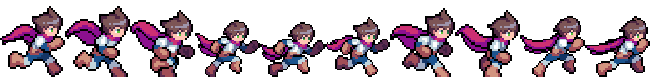
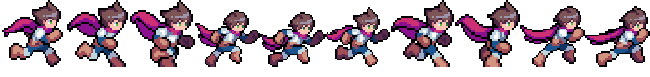
fix: align custom skins and expose solo picker

diff --git a/public/app.js b/public/app.js
@@ -20,6 +20,7 @@ const room = document.querySelector('#room');
 const nickname = document.querySelector('#nickname');
 const join = document.querySelector('#menu-start');
 const soloStart = document.querySelector('#solo-start');
+const soloSkin = document.querySelector('#solo-skin');
 const flip = document.querySelector('#flip');
 const soundToggle = document.querySelector('#sound-toggle');
 const pageRefresh = document.querySelector('#page-refresh');
@@ -62,6 +63,7 @@ const colors = ['#3ce6df', '#ff626c', '#7ee66b', '#ffd75d'];
 // assigns the slot default (Black Knight for P1, Demon_A for P2) instead of
 // every new connection accidentally claiming player one's visual.
 let selectedSkinId;
+let skinDialogMode = 'lobby';
 try { selectedSkinId = skinById(localStorage.getItem(SKIN_STORAGE_KEY))?.id; } catch {}
 const roleNames = ['黑骑士', '恶魔小鬼', '绿色重力小子', '黄色重力小子'];
 const music = new Audio(assetUrl('assets/sounds/025_SndMusic.mp3'));
@@ -248,6 +250,7 @@ Promise.all([mapLoad, ...[...sprites, ...Object.values(scene), openingBeam, elim
   join.textContent = '开始联机';
   soloStart.disabled = false;
   soloStart.textContent = '单人开始';
+  soloSkin.disabled = false;
   updateLobbyProgress();
   sendReady();
   signalRaceReady();
@@ -259,6 +262,7 @@ Promise.all([mapLoad, ...[...sprites, ...Object.values(scene), openingBeam, elim
   resourcesFailed = true;
   join.textContent = '资源加载失败';
   soloStart.textContent = '资源加载失败';
+  soloSkin.textContent = '资源加载失败';
   setStatus('资源加载失败，请刷新重试');
   if (!frontScreen.hidden) frontScreen.dataset.phase = 'menu';
 });
@@ -455,11 +459,14 @@ function persistSelectedSkin(skinId) {
 }
 function renderSkinDialog() {
   const localPlayer = state.players.find((player) => player.slot === localSlot);
-  const activeSkinId = playerSkinId(localPlayer, localSlot);
+  const choosingSoloSkin = skinDialogMode === 'solo';
+  const activeSkinId = choosingSoloSkin
+    ? (skinById(selectedSkinId)?.id ?? defaultSkinForSlot(1))
+    : playerSkinId(localPlayer, localSlot);
   skinDialogOptions.replaceChildren(...PLAYER_SKINS.map((skin) => {
     const choice = document.createElement('button');
     choice.type = 'button'; choice.className = 'skin-choice'; choice.dataset.skinId = skin.id;
-    choice.disabled = state.phase !== 'lobby' || socket?.readyState !== WebSocket.OPEN;
+    choice.disabled = !choosingSoloSkin && (state.phase !== 'lobby' || socket?.readyState !== WebSocket.OPEN);
     choice.setAttribute('aria-pressed', String(skin.id === activeSkinId));
     const preview = document.createElement('span'); preview.className = 'skin-preview'; setSkinPreview(preview, skin.id, localSlot);
     const label = document.createElement('span'); label.textContent = skin.name;
@@ -467,15 +474,26 @@ function renderSkinDialog() {
     return choice;
   }));
 }
-function openSkinDialog() {
-  if (!localSlot || state.phase !== 'lobby') return;
+function openSkinDialog(mode = 'lobby') {
+  const choosingSoloSkin = mode === 'solo';
+  if (choosingSoloSkin) {
+    if (!raceReady) return setStatus('皮肤仍在加载');
+  } else if (!localSlot || state.phase !== 'lobby') return;
+  skinDialogMode = choosingSoloSkin ? 'solo' : 'lobby';
   renderSkinDialog();
   if (!skinDialog.open) skinDialog.showModal();
 }
 function closeSkinDialog() { if (skinDialog.open) skinDialog.close(); }
 function selectSkin(skinId) {
   const skin = skinById(skinId);
-  if (!skin || state.phase !== 'lobby' || socket?.readyState !== WebSocket.OPEN) return;
+  if (!skin) return;
+  if (skinDialogMode === 'solo') {
+    persistSelectedSkin(skin.id);
+    closeSkinDialog();
+    setStatus(`单人皮肤已选择：${skin.name}`, true);
+    return;
+  }
+  if (state.phase !== 'lobby' || socket?.readyState !== WebSocket.OPEN) return;
   persistSelectedSkin(skin.id);
   socket.send(JSON.stringify({ type: 'select_skin', skinId: skin.id }));
   closeSkinDialog();
@@ -870,7 +888,7 @@ function draw() {
   ctx.restore();
   ctx.fillStyle='#fff'; ctx.font='bold 16px Arial'; ctx.fillText(String(Math.floor(state.tick ?? 0)).padStart(3, '0'), 590, 24);
 }
-join.addEventListener('click', connect); soloStart.addEventListener('click', startSolo); lobbyStart.addEventListener('click', startMatch); nextRound.addEventListener('click', returnToMenu); flip.addEventListener('click', sendFlip); soundToggle.addEventListener('click', toggleSound); pageRefresh.addEventListener('click', () => location.reload()); canvas.addEventListener('click', sendFlip); lobbyPlayers.addEventListener('click', (event) => { if (event.target.closest('[data-skin-action="open"]')) openSkinDialog(); }); skinDialogOptions.addEventListener('click', (event) => { const choice = event.target.closest('[data-skin-id]'); if (choice) selectSkin(choice.dataset.skinId); }); skinDialogClose.addEventListener('click', closeSkinDialog);
+join.addEventListener('click', connect); soloStart.addEventListener('click', startSolo); soloSkin.addEventListener('click', () => openSkinDialog('solo')); lobbyStart.addEventListener('click', startMatch); nextRound.addEventListener('click', returnToMenu); flip.addEventListener('click', sendFlip); soundToggle.addEventListener('click', toggleSound); pageRefresh.addEventListener('click', () => location.reload()); canvas.addEventListener('click', sendFlip); lobbyPlayers.addEventListener('click', (event) => { if (event.target.closest('[data-skin-action="open"]')) openSkinDialog(); }); skinDialogOptions.addEventListener('click', (event) => { const choice = event.target.closest('[data-skin-id]'); if (choice) selectSkin(choice.dataset.skinId); }); skinDialogClose.addEventListener('click', closeSkinDialog);
 fullscreen.addEventListener('click', () => {
   if (document.fullscreenElement) document.exitFullscreen?.();
   else gameShell.requestFullscreen?.();

diff --git a/public/style.css b/public/style.css
@@ -32,8 +32,8 @@ main { width:min(960px,100%); padding:22px; } header,.controls { display:flex; a
 #menu-panel label { justify-self:center; padding:7px 10px; background:#060d12d9; border:1px solid #4a6575; color:#cae6ef; }
 #menu-panel #room { width:128px; padding:5px 8px; border-color:#7896a4; background:#071117; }
 .menu-actions { display:flex; justify-content:center; gap:8px; }
-#menu-start,#solo-start,#back-menu { min-width:154px; justify-self:center; padding:10px 18px; border:1px solid #d8e8f0; background:linear-gradient(#314b5b,#101f2b); color:#fff; font-weight:bold; letter-spacing:.12em; text-shadow:0 1px #000; box-shadow:inset 0 0 0 2px #14232d,0 4px 14px #0008; }
-#menu-start:hover,#solo-start:hover,#back-menu:hover { border-color:#f5d961; color:#fff4ad; }
+#menu-start,#solo-start,#solo-skin,#back-menu { min-width:154px; justify-self:center; padding:10px 18px; border:1px solid #d8e8f0; background:linear-gradient(#314b5b,#101f2b); color:#fff; font-weight:bold; letter-spacing:.12em; text-shadow:0 1px #000; box-shadow:inset 0 0 0 2px #14232d,0 4px 14px #0008; }
+#menu-start:hover,#solo-start:hover,#solo-skin:hover,#back-menu:hover { border-color:#f5d961; color:#fff4ad; }
 #end-screen { z-index:4; background:#000 url('/assets/menu/multi-end.png') center/cover no-repeat; animation:end-in .45s ease-out; }
 #end-screen[hidden],#front-screen[hidden] { display:none; }
 #overlay { z-index:3; }
@@ -44,7 +44,7 @@ main { width:min(960px,100%); padding:22px; } header,.controls { display:flex; a
 #end-rankings li:nth-child(2) { left:51.5625%; top:22.55489%; width:9.0625%; height:14.37126%; }
 #end-rankings li:nth-child(3) { left:51.5625%; top:41.91617%; width:9.0625%; height:14.37126%; }
 #end-rankings li:nth-child(4) { left:51.5625%; top:63.07385%; width:9.0625%; height:14.37126%; }
-.rank-avatar { display:block; width:100%; aspect-ratio:65/77; background:var(--avatar-image) 0 0/1500% 900% no-repeat; filter:drop-shadow(0 3px 5px #000); }
+.rank-avatar { display:block; width:100%; aspect-ratio:65/77; background:var(--avatar-image) 0 0/var(--avatar-background-size,1500% 900%) no-repeat; image-rendering:pixelated; filter:drop-shadow(0 3px 5px #000); }
 #end-rankings li:nth-child(1) .rank-avatar { width:86.66667%; }
 .rank-score { position:absolute; left:50%; top:100%; transform:translateX(-50%); padding:1px 4px; border:1px solid #456170; background:#061017d9; color:#eaf6ff; font-size:clamp(7px,2.1vw,14px); font-weight:bold; line-height:1.15; white-space:nowrap; text-shadow:0 1px #000; }
 #end-rankings li:nth-child(1) .rank-score { top:79%; }
@@ -97,6 +97,6 @@ main { width:min(960px,100%); padding:22px; } header,.controls { display:flex; a
   #menu-panel label { padding:3px 6px; font-size:12px; }
   #menu-panel input { width:126px; padding:4px 6px; }
   .menu-actions { gap:5px; }
-  #menu-start,#solo-start { min-width:0; padding:8px 10px; }
+  #menu-start,#solo-start,#solo-skin { min-width:0; padding:8px 10px; }
   #dev-panel { top:auto; right:6px; bottom:6px; width:min(284px,calc(100vw - 12px)); max-height:55dvh; }
 }

diff --git a/public/asset-urls.js b/public/asset-urls.js
@@ -6,13 +6,13 @@ const versions = Object.freeze({
   "assets/menu/loading-splash.png": "7358057f72ba7f61",
   "assets/menu/menu-background.png": "9c2f8628688aab01",
   "assets/menu/multi-end.png": "7ae74d08f482a948",
-  "assets/players/player-black-knight.png": "5ebbaae74213aba7",
+  "assets/players/player-black-knight.png": "7a8a176090ace14f",
   "assets/players/player-blue.png": "cb211f812d131abb",
   "assets/players/player-demon-a.png": "9d334326f59227b2",
   "assets/players/player-green.png": "7a25655e5f9ceaa7",
   "assets/players/player-red.png": "14a7b2f33103e59e",
-  "assets/players/player-shadow-runner.png": "1d295d9c8432c4af",
-  "assets/players/player-violet-warrior.png": "f8fdfff1ced8fa74",
+  "assets/players/player-shadow-runner.png": "ffbd1b4c90a8003a",
+  "assets/players/player-violet-warrior.png": "4adf9c24e9f3d855",
   "assets/players/player-yellow.png": "6ded9b4bbdff55ea",
   "assets/scene/background.png": "b980400b3391bf3f",
   "assets/scene/block.png": "162d1944289fd718",

diff --git a/public/index.html b/public/index.html
@@ -21,7 +21,7 @@
             <p>最多 4 人 · 房主开始比赛后，点击或按 <kbd>空格</kbd> 反转重力</p>
             <label>房间码 <input id="room" maxlength="12" value="RUN4" autocomplete="off"></label>
             <label>昵称 <input id="nickname" maxlength="12" value="玩家" autocomplete="nickname"></label>
-            <div class="menu-actions"><button id="solo-start" disabled>加载赛道资源…</button><button id="menu-start" disabled>加载赛道资源…</button></div>
+            <div class="menu-actions"><button id="solo-skin" type="button" disabled>选择皮肤</button><button id="solo-start" disabled>加载赛道资源…</button><button id="menu-start" disabled>加载赛道资源…</button></div>
           </div>
           <div id="lobby-panel" aria-live="polite">
             <div class="lobby-card">

diff --git a/tools/build-black-knight-skin.py b/tools/build-black-knight-skin.py
@@ -20,6 +20,10 @@ from PIL import Image
 
 FRAME_WIDTH = 65
 FRAME_HEIGHT = 77
+# The shared normal-gravity hitbox ends at y=67 (offset 19 + height 48).
+# Preserve a ten-pixel transparent pad below every custom sprite so a visual
+# foot never appears inside a platform while its physics body is standing on it.
+CONTACT_Y = 67
 FRAME_COUNT = 6
 
 
@@ -58,11 +62,11 @@ def pack_frame(frame: Image.Image) -> Image.Image:
     """Centre every original pose and keep its bottom contact point aligned."""
     left, top, right, bottom = visible_bounds(frame)
     sprite = frame.crop((left, top, right, bottom))
-    scale = min(FRAME_WIDTH / sprite.width, FRAME_HEIGHT / sprite.height)
+    scale = min(FRAME_WIDTH / sprite.width, CONTACT_Y / sprite.height)
     size = (max(1, round(sprite.width * scale)), max(1, round(sprite.height * scale)))
     sprite = sprite.resize(size, Image.Resampling.NEAREST)
     cell = Image.new("RGBA", (FRAME_WIDTH, FRAME_HEIGHT))
-    cell.alpha_composite(sprite, ((FRAME_WIDTH - sprite.width) // 2, FRAME_HEIGHT - sprite.height))
+    cell.alpha_composite(sprite, ((FRAME_WIDTH - sprite.width) // 2, CONTACT_Y - sprite.height))
     return cell
 
 
@@ -99,7 +103,7 @@ def main() -> None:
         "frameCount": FRAME_COUNT,
         "frameWidth": FRAME_WIDTH,
         "frameHeight": FRAME_HEIGHT,
-        "processing": "bright green chroma key; transparent RGBA; nearest-neighbour resize; bottom-centred frame anchor",
+        "processing": "green chroma key; transparent RGBA; nearest-neighbour resize; y=67 collision-contact anchor",
         "sourceFrames": archived,
         "runtimeAtlas": {"file": output.name, "sha256": sha256(output)},
     }

diff --git a/tools/build-sprite-strip-skin.py b/tools/build-sprite-strip-skin.py
@@ -13,6 +13,9 @@ from PIL import Image
 
 FRAME_WIDTH = 65
 FRAME_HEIGHT = 77
+# Match the shared collision body's normal-gravity contact edge; retain the
+# lower ten rows as transparent padding for both normal and inverted gravity.
+CONTACT_Y = 67
 
 
 def sha256(path: Path) -> str:
@@ -25,11 +28,11 @@ def sprite_cell(sheet: Image.Image, index: int, cell_width: int, cell_height: in
     if bounds is None:
         raise ValueError(f"frame {index} is completely transparent")
     sprite = source.crop(bounds)
-    scale = min(FRAME_WIDTH / sprite.width, FRAME_HEIGHT / sprite.height)
+    scale = min(FRAME_WIDTH / sprite.width, CONTACT_Y / sprite.height)
     size = (max(1, round(sprite.width * scale)), max(1, round(sprite.height * scale)))
     sprite = sprite.resize(size, Image.Resampling.NEAREST)
     cell = Image.new("RGBA", (FRAME_WIDTH, FRAME_HEIGHT))
-    cell.alpha_composite(sprite, ((FRAME_WIDTH - sprite.width) // 2, FRAME_HEIGHT - sprite.height))
+    cell.alpha_composite(sprite, ((FRAME_WIDTH - sprite.width) // 2, CONTACT_Y - sprite.height))
     return cell
 
 